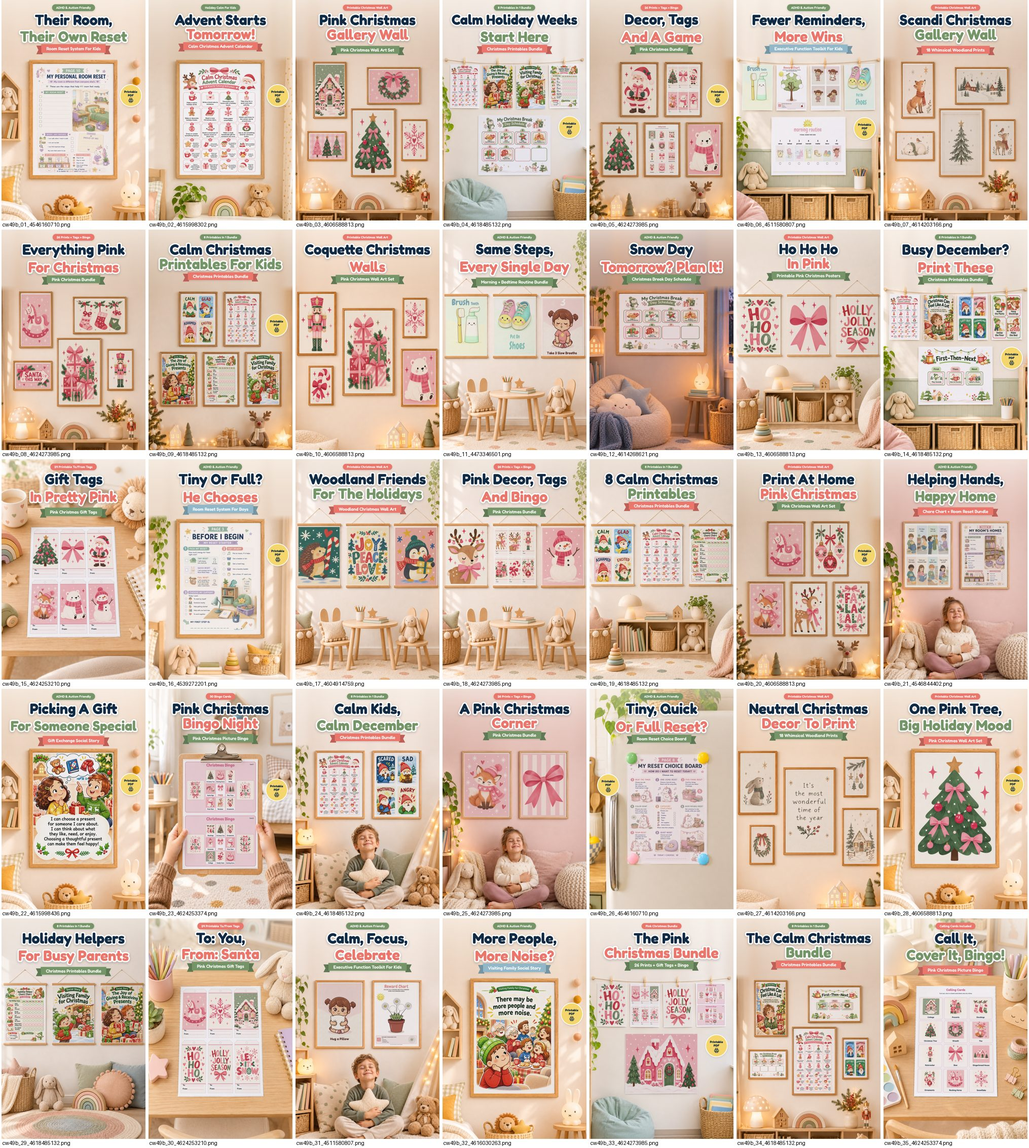
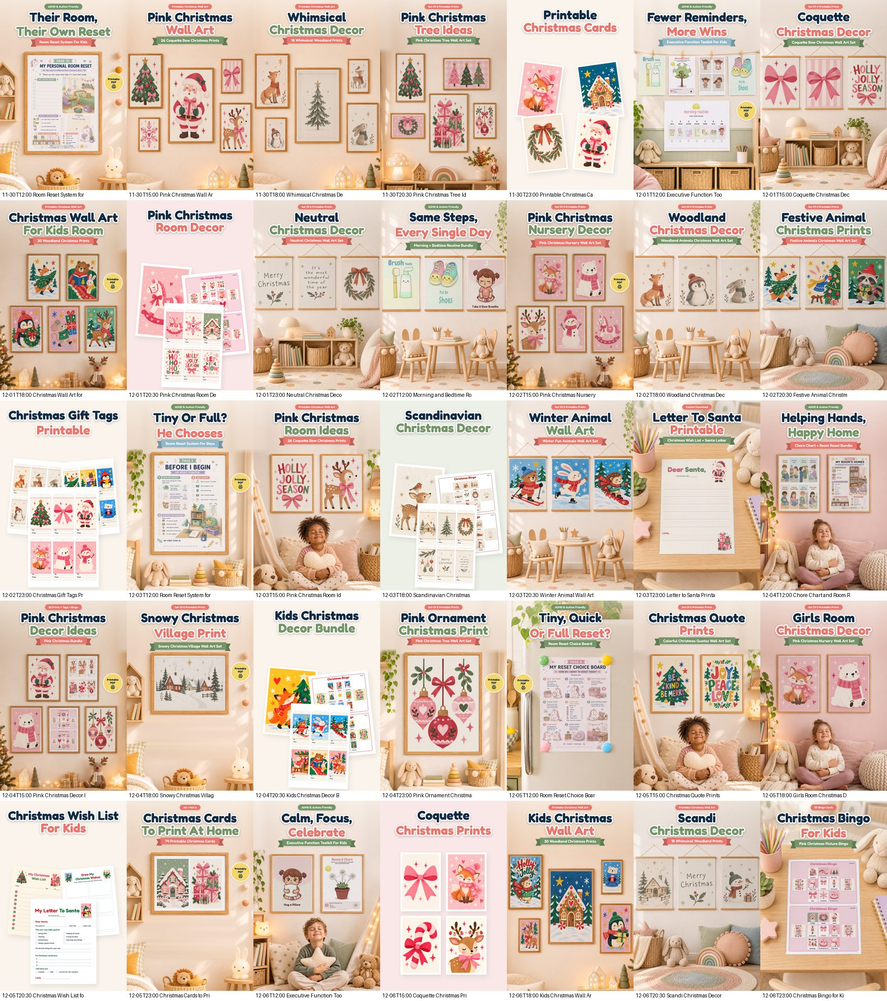
CW49/CW50: add Christmas wish list + Santa letter pins (4)
Claude-Session: https://claude.ai/code/session_015g1JM715u3eH2WotdwTKY2

diff --git a/cw49/files/pins_cw49_scheduler.js b/cw49/files/pins_cw49_scheduler.js
@@ -194,14 +194,14 @@
   "alt": "Winter Animal Wall Art, Skiing Bear, Skating Bunny and Snowboard Hedgehog. Printable from GraphicsCamp on Etsy, instant download."
  },
  {
-  "board": "Pink Christmas Decor",
-  "title": "Coquette Bow Christmas Print, Big Pink Bow Wall Art",
-  "description": "A coquette bow Christmas print: one big soft pink bow in a simple frame. Part of a set of 6 printable pink bow posters for a girly holiday room or nursery. Printable poster PDFs in A2 + 2:3 ratio (16x24 in), instant download from GraphicsCamp on Etsy.",
-  "link": "https://www.etsy.com/listing/4624273773?utm_source=pinterest&utm_medium=social&utm_campaign=cw49_pin20",
-  "image_url": "https://raw.githubusercontent.com/danielastankova/graphicscamp-pins/main/cw49/cw49c_20_4624273773.png?v=1",
+  "board": "Christmas Printables for Kids",
+  "title": "Letter to Santa Printable, Dear Santa Letter Template for Kids",
+  "description": "A letter to Santa printable for kids: a sweet pink Dear Santa page with lines for their Christmas wishes, signed with love. Print it at home tonight and mail it to the North Pole or leave it out with the cookies. Printable PDF in A4 + US Letter, instant download from GraphicsCamp on Etsy.",
+  "link": "https://www.etsy.com/listing/4626960853?utm_source=pinterest&utm_medium=social&utm_campaign=cw49_pin20",
+  "image_url": "https://raw.githubusercontent.com/danielastankova/graphicscamp-pins/main/cw49/cw49s_1_4626960853.png?v=1",
   "ts": 1796338800,
   "when": "2026-12-04T01:00:00",
-  "alt": "Coquette Bow Christmas Print, Big Pink Bow Wall Art. Printable from GraphicsCamp on Etsy, instant download."
+  "alt": "Letter to Santa Printable, Dear Santa Letter Template for Kids. Printable from GraphicsCamp on Etsy, instant download."
  },
  {
   "board": "Chore Chart for Kids",
@@ -285,13 +285,13 @@
  },
  {
   "board": "Christmas Printables for Kids",
-  "title": "Woodland Animal Christmas Prints, Deer and Penguin Wall Art",
-  "description": "Woodland animal Christmas prints in a calm Scandinavian style: a deer with a robin and a penguin in a knit hat. Part of a set of 6 printable animal posters for a nursery or kids room. Printable poster PDFs in A2 + 2:3 ratio (16x24 in), instant download from GraphicsCamp on Etsy.",
-  "link": "https://www.etsy.com/listing/4624544949?utm_source=pinterest&utm_medium=social&utm_campaign=cw49_pin29",
-  "image_url": "https://raw.githubusercontent.com/danielastankova/graphicscamp-pins/main/cw49/cw49c_29_4624544949.png?v=1",
+  "title": "Christmas Wish List for Kids, Printable Wish List and Santa Letter",
+  "description": "A Christmas wish list for kids in pink and woodland styles: a numbered wish list, a draw my Christmas wishes page and a fill in letter to Santa. Easy pages for little ones to share their wishes. Printable PDF in A4 + US Letter, instant download from GraphicsCamp on Etsy.",
+  "link": "https://www.etsy.com/listing/4626960853?utm_source=pinterest&utm_medium=social&utm_campaign=cw49_pin29",
+  "image_url": "https://raw.githubusercontent.com/danielastankova/graphicscamp-pins/main/cw49/cw49s_2_4626960853.png?v=1",
   "ts": 1796502600,
   "when": "2026-12-05T22:30:00",
-  "alt": "Woodland Animal Christmas Prints, Deer and Penguin Wall Art. Printable from GraphicsCamp on Etsy, instant download."
+  "alt": "Christmas Wish List for Kids, Printable Wish List and Santa Letter. Printable from GraphicsCamp on Etsy, instant download."
  },
  {
   "board": "Christmas Printables for Kids",

diff --git a/cw50/files/pins_cw50_scheduler.js b/cw50/files/pins_cw50_scheduler.js
@@ -215,13 +215,13 @@
  },
  {
   "board": "Christmas Printables for Kids",
-  "title": "Christmas Break Schedule for Kids, Visual Day Board Printable",
-  "description": "A Christmas break schedule kids can build themselves: activity cards for baking, crafts, games and outdoor time on a picture day board. It makes long winter break days feel calm. Printable PDF in A4 + US Letter, instant download from GraphicsCamp on Etsy.",
-  "link": "https://www.etsy.com/listing/4614268621?utm_source=pinterest&utm_medium=social&utm_campaign=cw50_pin22",
-  "image_url": "https://raw.githubusercontent.com/danielastankova/graphicscamp-pins/main/cw50/cw50c_22_4614268621.png?v=1",
+  "title": "Kids Christmas List Ideas, Draw My Christmas Wishes Printable",
+  "description": "Kids Christmas list ideas made fun: on the Draw My Christmas Wishes page kids draw each wish in a box and write its name. Part of a printable Christmas wish list and Santa letter set. Printable PDF in A4 + US Letter, instant download from GraphicsCamp on Etsy.",
+  "link": "https://www.etsy.com/listing/4626960853?utm_source=pinterest&utm_medium=social&utm_campaign=cw50_pin22",
+  "image_url": "https://raw.githubusercontent.com/danielastankova/graphicscamp-pins/main/cw50/cw50s_1_4626960853.png?v=1",
   "ts": 1797001200,
   "when": "2026-12-11T17:00:00",
-  "alt": "Christmas Break Schedule for Kids, Visual Day Board Printable. Printable from GraphicsCamp on Etsy, instant download."
+  "alt": "Kids Christmas List Ideas, Draw My Christmas Wishes Printable. Printable from GraphicsCamp on Etsy, instant download."
  },
  {
   "board": "Christmas Printables for Kids",
@@ -324,14 +324,14 @@
   "alt": "Calm Christmas for Kids, Sensory Social Story for the Holidays. Printable from GraphicsCamp on Etsy, instant download."
  },
  {
-  "board": "Autism Visual Schedule",
-  "title": "Christmas Social Stories for Kids, Prepare for Holiday Days",
-  "description": "Christmas social stories for kids: choosing a hug or a wave, gift time, when Christmas feels like a lot and opening presents gently. Read them together before the big days. Printable PDF in A4 + US Letter, instant download from GraphicsCamp on Etsy.",
-  "link": "https://www.etsy.com/listing/4618478623?utm_source=pinterest&utm_medium=social&utm_campaign=cw50_pin33",
-  "image_url": "https://raw.githubusercontent.com/danielastankova/graphicscamp-pins/main/cw50/cw50c_33_4618478623.png?v=1",
+  "board": "Christmas Printables for Kids",
+  "title": "Santa Letter Template, Fill In Letter to Santa for Kids",
+  "description": "A Santa letter template kids can fill in themselves: their name and age, what they did well this year, three Christmas wishes and a treat for Santa and the reindeer. Print at home in minutes. Printable PDF in A4 + US Letter, instant download from GraphicsCamp on Etsy.",
+  "link": "https://www.etsy.com/listing/4626960853?utm_source=pinterest&utm_medium=social&utm_campaign=cw50_pin33",
+  "image_url": "https://raw.githubusercontent.com/danielastankova/graphicscamp-pins/main/cw50/cw50s_2_4626960853.png?v=1",
   "ts": 1797184800,
   "when": "2026-12-13T20:00:00",
-  "alt": "Christmas Social Stories for Kids, Prepare for Holiday Days. Printable from GraphicsCamp on Etsy, instant download."
+  "alt": "Santa Letter Template, Fill In Letter to Santa for Kids. Printable from GraphicsCamp on Etsy, instant download."
  },
  {
   "board": "Christmas Printables for Kids",
